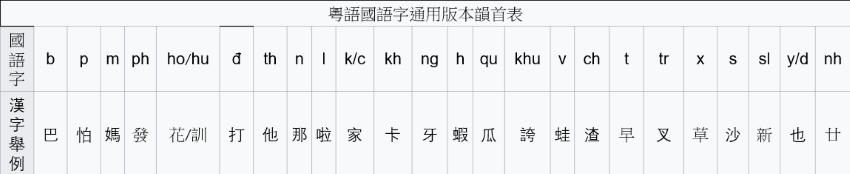
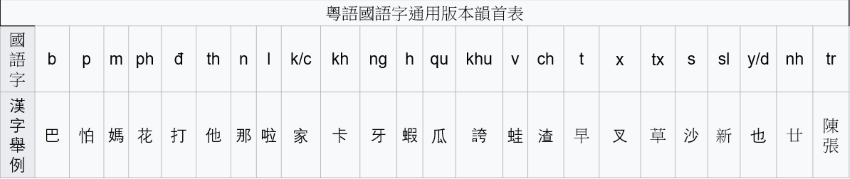
Add files via upload

Changed region(s): [[0.0, 0.5172, 1.0, 1.0], [0.0, 0.0, 1.0, 0.4885]]

diff --git a/release/c/cantonese_telex/source/welcome.htm b/release/c/cantonese_telex/source/welcome.htm
@@ -34,8 +34,8 @@
 </p>
 <p>粵語國語字係一種拉丁化嘅粵語文字，意在發展粵語表音文字，縮短粵文學習同書寫時間，增強粵語使用者之間嘅凝聚力同自我認同<p>
 <p>粵語國語字通用版本集合咗各種粵語口音嘅特點，形成咗一種能夠體現並且描述各種粵語口音嘅粵語表音文字，又減低咗同音字現象嘅影響，為唔同地區唔同口音嘅粵語使用者提供咗一種通用嘅書面文字</p> 
-  <p> Oạt-Ngữ Quóc-Ngữ-Tị hệ yât chủng Lai-đinh hóa ké Oạt Ngữ mần-tị, ý tọi phát chiển Oạt Ngữ biểu-yâm mần-tị, suc đoản Oạt Mần học-tập thùng sư-slẻ sị-kan, tăng-khường Oạt-Ngữ sỉ-yụng-chẻ chi-kan ké ngình-tụi-lịch thùng tị-ngõ nhịnh-thùng</p>
- <p>Oạt-Ngữ Quóc-Ngữ-Tị Thung-Yụng Bản-Bổn tập-hập chỏ cóc-chủng Oạt-Ngữ hẩu-yâm ké đặc-điểm, yình-sình chỏ yât chủng nằng-cấu thể-yiện bính-xẻ miều-suất cóc-chủng Oạt-Ngữ hẩu-yâm ké Oạt-Ngữ biểu-yâm mần-tị, ựu kảm-đê chỏ thùng-yâm-xì ké yỉnh-hưởng, vỵ m̀ thùng đỵ-khư m̀ thùng hẩu-yâm ké Oạt-Ngữ sỉ-yụng-chẻ thề-cung chỏ yât chủng thung-yụng ké sư-miện mần-tị</p>
+  <p> Oạt-Ngữ Quóc-Ngữ-Tị hệ yât chủng Lai-đinh hóa ké Oạt Ngữ mần-tị, ý tọi phát chiển Oạt Ngữ biểu-yâm mần-tị, suc đoản Oạt Mần học-tập thùng sư-slẻ sị-kan, tăng-khường Oạt-Ngữ sỉ-yụng-chẻ chi-kan ké ngình-tụi-lịch thùng tị-ngõ nhận-thùng</p>
+ <p>Oạt-Ngữ Quóc-Ngữ-Tị Thung-Yụng Bản-Bổn tập-hập chỏ cóc-chủng Oạt-Ngữ hẩu-yâm ké đặc-điểm, hình-sình chỏ yât chủng nằng-cấu thể-hiện bính-xẻ miều-suất cóc-chủng Oạt-Ngữ hẩu-yâm ké Oạt-Ngữ biểu-yâm mần-tị, ựu kảm-đê chỏ thùng-yâm-xì ké yỉnh-hưởng, vỵ m̀ thùng đỵ-khư m̀ thùng hẩu-yâm ké Oạt-Ngữ sỉ-yụng-chẻ thề-cung chỏ yât chủng thung-yụng ké sư-miện mần-tị</p>
   <p> Chữ Quốc Ngữ tiếng Quảng Đông là một loại chữ viết La-tinh hóa của tiếng Quảng Đông, nhằm mục đích phát triển chữ viết biểu âm của tiếng Quảng Đông, giảm bớt thời gian học và viết tiếng Quảng Đông, nâng cao sức hướng tâm và khẳng định căn cước của những người sử dụng tiếng Quảng Đông</p>
 <p>Chữ Quốc Ngữ tiếng Quảng Đông thông dụng đã tổng hợp đặc trưng của các loại giọng của tiếng Quảng, hình thành một chữ viết biểu âm có thể thể hiện và mô tả các loại giọng của tiếng Quảng, cũng bớt ảnh hưởng của hiện tượng từ đồng âm, cho những người nói các giọng của tiếng Quảng Đông ở khắp nơi một hệ thống chữ viết thung yụng </p>
   <p> The script of national language for Cantonese is a romanized Cantonese script aimed at developing a phonetic writing system for Cantonese, reduce the time of learning and writing of Cantonese, while strengthening the cohesion and self-identity among Cantonese speakers.</p>
@@ -53,8 +53,10 @@
   <p>The consonant "ng" before vowels i ê e can be transformed to "ngh"</p>
  <p>廣州音入面消失咗嘅某啲日母nh韻首同疑母ng韻首保留喺通用版入面，呢啲日母nh同疑母ng喺台山話欽州話同南寧話仍然存在</p>
  <p>The "nh" and "ng" consonants disappeared in Cantonese of Hong Kong and Canton city are preserved in the universal version, which are still existing in Hoisan, Yamchow and Namning accent</p>
- <p>廣州音入面唔再分別嘅 ch（知）同t（精）韻首、tr（持）同x（青）韻首、s（詩）同sl（思）韻首依然喺通用版本入面得到體現</p>
- <p>The "ch" and "t" consonants pair, "tr" and "x" consonants pair, "s" and "sl" consonants pair which are not differed in Hong Kong and Canton city accent, are still presented in universal version.</p>
+ <p>廣州音入面唔再分別嘅 ch（知）同t（精）韻首、x（持）同tx（青）韻首、s（詩）同sl（思）韻首依然喺通用版本入面得到體現</p>
+ <p>The "ch" and "t" consonants pair, "x" and "tx" consonants pair, "s" and "sl" consonants pair which are not differed in Hong Kong and Canton city accent, are still presented in universal version.</p>
+  <p>"tr"韻首用嚟表示依家粵語依家已經冇咗嘅「知組」聲母，"tr"韻首用嚟表示專有名詞譬如話人同地方嘅名，"tr"韻首係第一聲、第二聲、第三聲、第六聲嘅韻腹前邊時同"ch"韻首嘅發音相同，"tr"韻首係第四聲、第五聲嘅韻腹前邊時同"x"韻首嘅發音相同</p>
+ <p>"tr" consonant is used to represent the "tr" serie consonants which is no longer existing Cantonese. The "tr" is applied in the proper noun such as name of a person and a place. The pronunciation of "tr" is same as "ch" in syllable with the first, second, third and sixth tone. The pronunciation of "tr" is same as "x" in syllable with the forth and fifth tone.</p>
  <p>喺廣州音入面讀"ph"而係喺南寧音入面有機會讀"v"嘅韻首，通用版本寫"ho" "hu"或者"kho"譬如話 「花hoa」「化hóa」「葷huân」「訓huấn」「快khoái」</p> 
  <p>The consonants pronounce "ph" in Canton city accent and have change to be pronounced as "v", should be spelled as "ho" "hu" or "kho" in universal version, such as "花hoa" "化hóa" "葷huân" "訓huấn" "快khoái"</p> 
  <p>字母"f"嘅發音同"ph"相同，主要用嚟表音同書寫外來詞語</p>
@@ -69,8 +71,8 @@
  <p>The vowels pronounce "âu" in Canton city and Hong Kong accent while pronounce "ưu" in Hoisan accent are spelled as "ưu"</p>
  <p>如果"ưu"韻腹前邊嘅韻首係"y",咁就唔使寫韻首，直程寫"ưu"就得，譬如話「優ưu」「幼ứu」「友ữu」「右ựu」</p>
  <p>If the consonant before the vowel "ưu" is "y", then this consonant will be omitted, only "ưu" will be spelled, such as 「優ưu」「幼ứu」「友ữu」「右ựu」</p>
- <p>如果一個字嘅南寧音版本嘅韻腹係"ư", 喺廣州音或者台山話入面讀"cui/kui" "khui" "hui" "ngui" "slui" "xui" "tui" "nui" "lui"，咁呢啲字嘅通用版正寫係"cư/kư" "khư" "hư" "ngư" "slư" "xư" "tư" "nư" "lư"</p>
- <p>If a character's vowel is "ư" in Namning accent, and the character is pronounced "cui/kui" "khui" "hui" "ngui" "slui" "xui" "tui" "nui" "lui" in Canton city and Hong Kong accent or Hoisan accent, then the character should be spelled as "cư/kư" "khư" "hư" "ngư" "slư" "xư" "tư" "nư" "lư" in the universal version</p>
+ <p>如果一個字嘅南寧音版本嘅韻腹係"ư", 喺廣州音或者台山話入面讀"cui/kui" "khui" "hui" "ngui" "slui" "txui" "tui" "nui" "lui"，咁呢啲字嘅通用版正寫係"cư/kư" "khư" "hư" "ngư" "slư" "txư" "tư" "nư" "lư"</p>
+ <p>If a character's vowel is "ư" in Namning accent, and the character is pronounced "cui/kui" "khui" "hui" "ngui" "slui" "txui" "tui" "nui" "lui" in Canton city and Hong Kong accent or Hoisan accent, then the character should be spelled as "cư/kư" "khư" "hư" "ngư" "slư" "txư" "tư" "nư" "lư" in the universal version</p>
  <p>南寧音入面嘅[tʃɿ] [tʃʰɿ] [sɿ]嘅拼寫係"chu" "xu" "su"</p>
  <p>The [tʃɿ] [tʃʰɿ] and [sɿ] sounds in Namning accent are spelled as "chu" "xu" and "su"</p>
  <p>"iu" "im" "in" "ip" "it" 組合用嚟表示發音或者串唔係粵語詞源或者唔係漢越詞詞源嘅詞語，譬如話來自嘅英文嘅借詞「𨋢lip」「天拿水thin-nà sủi」，或者係借用漢字嚟表示詞語嘅發音但係字嘅意思同漢字本身嘅意思無關嘅字，呢啲正寫嘅發音同廣州話嘅"iêu" "iêm" "iên" "iêp" "iêt" 一樣，同台山話嘅"ưu" "âm" "ân" "ât" "âp" 一樣</p>
@@ -188,14 +190,14 @@
    <tr>
      <td>3 (mid level)</td>
      <td>s</td>
-     <td>huy<strong>s</strong></td>
+     <td>huw<strong>s</strong></td>
      <td>hứ去
      </td>
    </tr>
    <tr>
      <td>4 (low falling)</td>
      <td>f</td>
-     <td>tra<strong>f</strong></td>
+     <td>xa<strong>f</strong></td>
      <td>xà茶
      </td></tr>
    <tr>
@@ -247,7 +249,7 @@
   <p>每個句子嘅第一個字母要大寫</p>
   <p>The first letter in a proper noun such as the name of a particular person and place should be capitalized</p>
   <p>專有名詞譬如話人同地方嘅第一個字母要大寫</p>
-  <p>The first letter in each syllable of a Cantonese origin or Sino-cantonese origin proper noun such as the name of a particular person and place should be capitalized</p>
+  <p>The first letter in each syllable of a Cantonese origin or Sino-cantonese origin proper noun such as the name of a person and a place should be capitalized</p>
   <p>粵語或者漢粵詞詞源嘅專有名詞嘅每一個音節嘅第一個字母要大寫</p>
   <p>In an acronym, the first letter of each syllable should be capitalized, and a period "." can be added behind each capitalized letter</p>
   <p>係縮寫中，每個音節嘅第一個字母要大寫，每個大寫字母嘅後邊可以添埋一個句號"."</p>
@@ -258,6 +260,8 @@
   <p>Other punctuation works similar with punctuations in English and Vietnamese</p>
   <p>等等đẳng đẳng嘅縮寫係đ.đ.</p>
   <p>The acronym of "đẳng đẳng" is "đ.đ."</p>
+  <p>如果某一個音節歷史上由兩個音節演化然後合併，咁喺呢個音節嘅韻首同韻腹中間可以加入一個撇"’"，譬如話自"mât-yẽ乜嘢"變成嘅"m’e咩" 自"nhị-sập二十"變成嘅"nh’ạ廿" 自"slam-sập三十"變成嘅"sl’a卅" 自"m̀-hệ唔係"變成嘅"m’ệ咪"</p>
+  <p>If one syllable was historically evolved from the merging of two syllables, an apostrophe can be inserted between the front consonant and the vowel. For example, "mât-yẽ乜嘢" evolved to "m’e咩" "nhị-sập二十" evolved to "nh’ạ廿" "slam-sập三十" evolved to "s’a卅" "m̀-hệ唔係" evolved to "m’ệ咪" </p>
   <p>其他標點嘅作用同英文同越南文類似</p>
   <p>Other uses of punctuation are similar with English and Vietnamese</p>
   <p></p>
@@ -269,7 +273,7 @@
      If more than one tone marking key is pressed, the last one will be used. For example, typing <code>asf</code> will return "à". To write a tone marking key as a normal character, one has to press it twice: <code>her</code> becomes <code>hẻ</code>, while <code>herr</code> becomes <code>her</code>.
    </p>
  <p> 使用Z鍵取消音調轉換 </p>
- <p> tap Z key to remove tonations  </p>p>
+ <p> tap Z key to remove tonations  </p>
 
 
   <a href="https://github.com/Cathaylaboratory/quokyuzi/blob/main/oatnguquocnguti.yaml">Dictionary for the script of National Language universal version Quóc Ngữ Tị大粤國音字匯－粵語國語字字典總合通用版</a>
@@ -283,7 +287,7 @@
   <a href="https://github.com/Cathaylaboratory/quokyuzi/blob/main/quocyuchinamninhva.yaml">Dictionary for the script of National Language for Namning accent Quóc Ữ Chị粵語國語字字典南寧音</a>
   <p></p>
   <p>粵語國語字通用版本係一種收納咗多種粵語口音發音嘅粵語文字，粵語國語字通用版本嘅使用同粵語國語字嘅廣州音、台山音、南寧音、欽州音等等粵語口音嘅版本嘅使用之間唔衝突</p>
-  <p>Oạt Ngữ Quóc Ngữ Tị thung yụng bản bổn hệ yât chủng sưu-nạp chỏ đo-chủng Oạt Ngữ hẩu yâm ké Oạt-Ngữ mần-tị, Oạt Ngữ Quóc Ngữ Tị thung yụng bản bổn ké sỉ-yụng thùng Oạt Ngữ Quóc Ngữ Tị ké Quỏng Châu yâm, Thòi San yâm, Nàm Nình Yâm, Yâm Châu yâm đ.đ. Oạt Ngữ hẩu yâm ké bản-bổn ké sỉ-yụng m̀ trung-đật </p>
+  <p>Oạt Ngữ Quóc Ngữ Tị thung yụng bản bổn hệ yât chủng sưu-nạp chỏ đo-chủng Oạt Ngữ hẩu yâm ké Oạt-Ngữ mần-tị, Oạt Ngữ Quóc Ngữ Tị thung yụng bản bổn ké sỉ-yụng thùng Oạt Ngữ Quóc Ngữ Tị ké Quỏng Châu yâm, Thòi San yâm, Nàm Nình Yâm, Yâm Châu yâm đ.đ. Oạt Ngữ hẩu yâm ké bản-bổn ké sỉ-yụng m̀ xung-đật </p>
   <p>The universal version of Script of Nation Language of Cantonese is a Cantonese script gathered various of Cantonese accents and dialects, the uses of the universal version of Script of Nation Language of Cantonese is not conflict with the use of the Script of Nation Language of Cantonese for cantonese accents, such as Hong Kong and Canton city accent, Hoisan accent, Namning accent and Yamchow accent.</p>
   <p></p>
 <p>範文：南國山河</p>
@@ -293,9 +297,9 @@
 <p>截然定分在天書</p>
 <p>Tiệt Nhiền Định Phân Tọi Thiên Sư</p>
 <p>如何逆虜來侵犯</p> 
-<p>Nhừ Hò Ngịch Lỗ Lòi Xâm Phạn</p>
+<p>Nhừ Hò Ngịch Lỗ Lòi Txâm Phạn</p>
 <p>汝等行看取敗虛</p> 
-<p>Nhữ Đẳng Hành Hón Xử Bại Hư</p>
+<p>Nhữ Đẳng Hành Hón Txử Bại Hư</p>
 
 <p>© cathaylab</p>
 </body>

diff --git a/release/c/cantonese_telex/source/help/cantonese_telex.php b/release/c/cantonese_telex/source/help/cantonese_telex.php
@@ -8,10 +8,10 @@
 <p>
   Cantonese Telex keyboard for the Universal Version Script of the National Language for Cantonese Oạt Ngữ Quóc Ngữ Tị Thung Yụng Bản粵語國語字通用版
 </p>
-<p>粵語國語字係一種拉丁化嘅粵語文字，意在發展粵語表音文字，縮短粵文學習同書寫時間，增強粵語使用者之間嘅凝聚力同自我認同</p>
+<p>粵語國語字係一種拉丁化嘅粵語文字，意在發展粵語表音文字，縮短粵文學習同書寫時間，增強粵語使用者之間嘅凝聚力同自我認同<p>
 <p>粵語國語字通用版本集合咗各種粵語口音嘅特點，形成咗一種能夠體現並且描述各種粵語口音嘅粵語表音文字，又減低咗同音字現象嘅影響，為唔同地區唔同口音嘅粵語使用者提供咗一種通用嘅書面文字</p> 
-  <p> Oạt-Ngữ Quóc-Ngữ-Tị hệ yât chủng Lai-đinh hóa ké Oạt Ngữ mần-tị, ý tọi phát chiển Oạt Ngữ biểu-yâm mần-tị, suc đoản Oạt Mần học-tập thùng sư-slẻ sị-kan, tăng-khường Oạt-Ngữ sỉ-yụng-chẻ chi-kan ké ngình-tụi-lịch thùng tị-ngõ nhịnh-thùng</p>
- <p>Oạt-Ngữ Quóc-Ngữ-Tị Thung-Yụng Bản-Bổn tập-hập chỏ cóc-chủng Oạt-Ngữ hẩu-yâm ké đặc-điểm, yình-sình chỏ yât chủng nằng-cấu thể-yiện bính-xẻ miều-suất cóc-chủng Oạt-Ngữ hẩu-yâm ké Oạt-Ngữ biểu-yâm mần-tị, ựu kảm-đê chỏ thùng-yâm-xì ké yỉnh-hưởng, vỵ m̀ thùng đỵ-khư m̀ thùng hẩu-yâm ké Oạt-Ngữ sỉ-yụng-chẻ thề-cung chỏ yât chủng thung-yụng ké sư-miện mần-tị</p>p>
+  <p> Oạt-Ngữ Quóc-Ngữ-Tị hệ yât chủng Lai-đinh hóa ké Oạt Ngữ mần-tị, ý tọi phát chiển Oạt Ngữ biểu-yâm mần-tị, suc đoản Oạt Mần học-tập thùng sư-slẻ sị-kan, tăng-khường Oạt-Ngữ sỉ-yụng-chẻ chi-kan ké ngình-tụi-lịch thùng tị-ngõ nhận-thùng</p>
+ <p>Oạt-Ngữ Quóc-Ngữ-Tị Thung-Yụng Bản-Bổn tập-hập chỏ cóc-chủng Oạt-Ngữ hẩu-yâm ké đặc-điểm, hình-sình chỏ yât chủng nằng-cấu thể-hiện bính-xẻ miều-suất cóc-chủng Oạt-Ngữ hẩu-yâm ké Oạt-Ngữ biểu-yâm mần-tị, ựu kảm-đê chỏ thùng-yâm-xì ké yỉnh-hưởng, vỵ m̀ thùng đỵ-khư m̀ thùng hẩu-yâm ké Oạt-Ngữ sỉ-yụng-chẻ thề-cung chỏ yât chủng thung-yụng ké sư-miện mần-tị</p>
   <p> Chữ Quốc Ngữ tiếng Quảng Đông là một loại chữ viết La-tinh hóa của tiếng Quảng Đông, nhằm mục đích phát triển chữ viết biểu âm của tiếng Quảng Đông, giảm bớt thời gian học và viết tiếng Quảng Đông, nâng cao sức hướng tâm và khẳng định căn cước của những người sử dụng tiếng Quảng Đông</p>
 <p>Chữ Quốc Ngữ tiếng Quảng Đông thông dụng đã tổng hợp đặc trưng của các loại giọng của tiếng Quảng, hình thành một chữ viết biểu âm có thể thể hiện và mô tả các loại giọng của tiếng Quảng, cũng bớt ảnh hưởng của hiện tượng từ đồng âm, cho những người nói các giọng của tiếng Quảng Đông ở khắp nơi một hệ thống chữ viết thung yụng </p>
   <p> The script of national language for Cantonese is a romanized Cantonese script aimed at developing a phonetic writing system for Cantonese, reduce the time of learning and writing of Cantonese, while strengthening the cohesion and self-identity among Cantonese speakers.</p>
@@ -29,8 +29,10 @@
   <p>The consonant "ng" before vowels i ê e can be transformed to "ngh"</p>
  <p>廣州音入面消失咗嘅某啲日母nh韻首同疑母ng韻首保留喺通用版入面，呢啲日母nh同疑母ng喺台山話欽州話同南寧話仍然存在</p>
  <p>The "nh" and "ng" consonants disappeared in Cantonese of Hong Kong and Canton city are preserved in the universal version, which are still existing in Hoisan, Yamchow and Namning accent</p>
- <p>廣州音入面唔再分別嘅 ch（知）同t（精）韻首、tr（持）同x（青）韻首、s（詩）同sl（思）韻首依然喺通用版本入面得到體現</p>
- <p>The "ch" and "t" consonants pair, "tr" and "x" consonants pair, "s" and "sl" consonants pair which are not differed in Hong Kong and Canton city accent, are still presented in universal version.</p>
+ <p>廣州音入面唔再分別嘅 ch（知）同t（精）韻首、x（持）同tx（青）韻首、s（詩）同sl（思）韻首依然喺通用版本入面得到體現</p>
+ <p>The "ch" and "t" consonants pair, "x" and "tx" consonants pair, "s" and "sl" consonants pair which are not differed in Hong Kong and Canton city accent, are still presented in universal version.</p>
+  <p>"tr"韻首用嚟表示依家粵語依家已經冇咗嘅「知組」聲母，"tr"韻首用嚟表示專有名詞譬如話人同地方嘅名，"tr"韻首係第一聲、第二聲、第三聲、第六聲嘅韻腹前邊時同"ch"韻首嘅發音相同，"tr"韻首係第四聲、第五聲嘅韻腹前邊時同"x"韻首嘅發音相同</p>
+ <p>"tr" consonant is used to represent the "tr" serie consonants which is no longer existing Cantonese. The "tr" is applied in the proper noun such as name of a person and a place. The pronunciation of "tr" is same as "ch" in syllable with the first, second, third and sixth tone. The pronunciation of "tr" is same as "x" in syllable with the forth and fifth tone.</p>
  <p>喺廣州音入面讀"ph"而係喺南寧音入面有機會讀"v"嘅韻首，通用版本寫"ho" "hu"或者"kho"譬如話 「花hoa」「化hóa」「葷huân」「訓huấn」「快khoái」</p> 
  <p>The consonants pronounce "ph" in Canton city accent and have change to be pronounced as "v", should be spelled as "ho" "hu" or "kho" in universal version, such as "花hoa" "化hóa" "葷huân" "訓huấn" "快khoái"</p> 
  <p>字母"f"嘅發音同"ph"相同，主要用嚟表音同書寫外來詞語</p>
@@ -45,8 +47,8 @@
  <p>The vowels pronounce "âu" in Canton city and Hong Kong accent while pronounce "ưu" in Hoisan accent are spelled as "ưu"</p>
  <p>如果"ưu"韻腹前邊嘅韻首係"y",咁就唔使寫韻首，直程寫"ưu"就得，譬如話「優ưu」「幼ứu」「友ữu」「右ựu」</p>
  <p>If the consonant before the vowel "ưu" is "y", then this consonant will be omitted, only "ưu" will be spelled, such as 「優ưu」「幼ứu」「友ữu」「右ựu」</p>
- <p>如果一個字嘅南寧音版本嘅韻腹係"ư", 喺廣州音或者台山話入面讀"cui/kui" "khui" "hui" "ngui" "slui" "xui" "tui" "nui" "lui"，咁呢啲字嘅通用版正寫係"cư/kư" "khư" "hư" "ngư" "slư" "xư" "tư" "nư" "lư"</p>
- <p>If a character's vowel is "ư" in Namning accent, and the character is pronounced "cui/kui" "khui" "hui" "ngui" "slui" "xui" "tui" "nui" "lui" in Canton city and Hong Kong accent or Hoisan accent, then the character should be spelled as "cư/kư" "khư" "hư" "ngư" "slư" "xư" "tư" "nư" "lư" in the universal version</p>
+ <p>如果一個字嘅南寧音版本嘅韻腹係"ư", 喺廣州音或者台山話入面讀"cui/kui" "khui" "hui" "ngui" "slui" "txui" "tui" "nui" "lui"，咁呢啲字嘅通用版正寫係"cư/kư" "khư" "hư" "ngư" "slư" "txư" "tư" "nư" "lư"</p>
+ <p>If a character's vowel is "ư" in Namning accent, and the character is pronounced "cui/kui" "khui" "hui" "ngui" "slui" "txui" "tui" "nui" "lui" in Canton city and Hong Kong accent or Hoisan accent, then the character should be spelled as "cư/kư" "khư" "hư" "ngư" "slư" "txư" "tư" "nư" "lư" in the universal version</p>
  <p>南寧音入面嘅[tʃɿ] [tʃʰɿ] [sɿ]嘅拼寫係"chu" "xu" "su"</p>
  <p>The [tʃɿ] [tʃʰɿ] and [sɿ] sounds in Namning accent are spelled as "chu" "xu" and "su"</p>
  <p>"iu" "im" "in" "ip" "it" 組合用嚟表示發音或者串唔係粵語詞源或者唔係漢越詞詞源嘅詞語，譬如話來自嘅英文嘅借詞「𨋢lip」「天拿水thin-nà sủi」，或者係借用漢字嚟表示詞語嘅發音但係字嘅意思同漢字本身嘅意思無關嘅字，呢啲正寫嘅發音同廣州話嘅"iêu" "iêm" "iên" "iêp" "iêt" 一樣，同台山話嘅"ưu" "âm" "ân" "ât" "âp" 一樣</p>
@@ -135,7 +137,7 @@
 </table>
 
 <p>tone rules quy tắc thanh điệu 音調規則</p>
- <p> 對應粵拼嘅第一聲唔使打，第二聲打r，第三聲打s，第四聲打f，第五聲打x，第六聲打j </p>p>
+ <p> 對應粵拼嘅第一聲唔使打，第二聲打r，第三聲打s，第四聲打f，第五聲打x，第六聲打j </p>
  <p> tone 1 for nothing, tone 2 = r, tone 3 =s, tone 4 = f, tone 5 = x, tone 6 = j </p>p>
 <h2>Tonal diacritics</h2>
 
@@ -164,14 +166,14 @@
    <tr>
      <td>3 (mid level)</td>
      <td>s</td>
-     <td>huy<strong>s</strong></td>
+     <td>huw<strong>s</strong></td>
      <td>hứ去
      </td>
    </tr>
    <tr>
      <td>4 (low falling)</td>
      <td>f</td>
-     <td>tra<strong>f</strong></td>
+     <td>xa<strong>f</strong></td>
      <td>xà茶
      </td></tr>
    <tr>
@@ -223,7 +225,7 @@
   <p>每個句子嘅第一個字母要大寫</p>
   <p>The first letter in a proper noun such as the name of a particular person and place should be capitalized</p>
   <p>專有名詞譬如話人同地方嘅第一個字母要大寫</p>
-  <p>The first letter in each syllable of a Cantonese origin or Sino-cantonese origin proper noun such as the name of a particular person and place should be capitalized</p>
+  <p>The first letter in each syllable of a Cantonese origin or Sino-cantonese origin proper noun such as the name of a person and a place should be capitalized</p>
   <p>粵語或者漢粵詞詞源嘅專有名詞嘅每一個音節嘅第一個字母要大寫</p>
   <p>In an acronym, the first letter of each syllable should be capitalized, and a period "." can be added behind each capitalized letter</p>
   <p>係縮寫中，每個音節嘅第一個字母要大寫，每個大寫字母嘅後邊可以添埋一個句號"."</p>
@@ -234,6 +236,8 @@
   <p>Other punctuation works similar with punctuations in English and Vietnamese</p>
   <p>等等đẳng đẳng嘅縮寫係đ.đ.</p>
   <p>The acronym of "đẳng đẳng" is "đ.đ."</p>
+  <p>如果某一個音節歷史上由兩個音節演化然後合併，咁喺呢個音節嘅韻首同韻腹中間可以加入一個撇"’"，譬如話自"mât-yẽ乜嘢"變成嘅"m’e咩" 自"nhị-sập二十"變成嘅"nh’ạ廿" 自"slam-sập三十"變成嘅"sl’a卅" 自"m̀-hệ唔係"變成嘅"m’ệ咪"</p>
+  <p>If one syllable was historically evolved from the merging of two syllables, an apostrophe can be inserted between the front consonant and the vowel. For example, "mât-yẽ乜嘢" evolved to "m’e咩" "nhị-sập二十" evolved to "nh’ạ廿" "slam-sập三十" evolved to "s’a卅" "m̀-hệ唔係" evolved to "m’ệ咪" </p>
   <p>其他標點嘅作用同英文同越南文類似</p>
   <p>Other uses of punctuation are similar with English and Vietnamese</p>
   <p></p>
@@ -259,7 +263,7 @@
   <a href="https://github.com/Cathaylaboratory/quokyuzi/blob/main/quocyuchinamninhva.yaml">Dictionary for the script of National Language for Namning accent Quóc Ữ Chị粵語國語字字典南寧音</a>
   <p></p>
   <p>粵語國語字通用版本係一種收納咗多種粵語口音發音嘅粵語文字，粵語國語字通用版本嘅使用同粵語國語字嘅廣州音、台山音、南寧音、欽州音等等粵語口音嘅版本嘅使用之間唔衝突</p>
-  <p>Oạt Ngữ Quóc Ngữ Tị thung yụng bản bổn hệ yât chủng sưu-nạp chỏ đo-chủng Oạt Ngữ hẩu yâm ké Oạt-Ngữ mần-tị, Oạt Ngữ Quóc Ngữ Tị thung yụng bản bổn ké sỉ-yụng thùng Oạt Ngữ Quóc Ngữ Tị ké Quỏng Châu yâm, Thòi San yâm, Nàm Nình Yâm, Yâm Châu yâm đ.đ. Oạt Ngữ hẩu yâm ké bản-bổn ké sỉ-yụng m̀ trung-đật </p>
+  <p>Oạt Ngữ Quóc Ngữ Tị thung yụng bản bổn hệ yât chủng sưu-nạp chỏ đo-chủng Oạt Ngữ hẩu yâm ké Oạt-Ngữ mần-tị, Oạt Ngữ Quóc Ngữ Tị thung yụng bản bổn ké sỉ-yụng thùng Oạt Ngữ Quóc Ngữ Tị ké Quỏng Châu yâm, Thòi San yâm, Nàm Nình Yâm, Yâm Châu yâm đ.đ. Oạt Ngữ hẩu yâm ké bản-bổn ké sỉ-yụng m̀ xung-đật </p>
   <p>The universal version of Script of Nation Language of Cantonese is a Cantonese script gathered various of Cantonese accents and dialects, the uses of the universal version of Script of Nation Language of Cantonese is not conflict with the use of the Script of Nation Language of Cantonese for cantonese accents, such as Hong Kong and Canton city accent, Hoisan accent, Namning accent and Yamchow accent.</p>
   <p></p>
 <p>範文：南國山河</p>
@@ -269,8 +273,8 @@
 <p>截然定分在天書</p>
 <p>Tiệt Nhiền Định Phân Tọi Thiên Sư</p>
 <p>如何逆虜來侵犯</p> 
-<p>Nhừ Hò Ngịch Lỗ Lòi Xâm Phạn</p>
+<p>Nhừ Hò Ngịch Lỗ Lòi Txâm Phạn</p>
 <p>汝等行看取敗虛</p> 
-<p>Nhữ Đẳng Hành Hón Xử Bại Hư</p>
+<p>Nhữ Đẳng Hành Hón Txử Bại Hư</p>
 
 <p>© cathaylab</p>

diff --git a/release/c/cantonese_telex/HISTORY.md b/release/c/cantonese_telex/HISTORY.md
@@ -1,6 +1,10 @@
 cantonese telex Change History
 ====================
 
+3.1.2 (2025-12-01)
+----------------
+* added apostrophe between front consonant and vowel in a merged syllable
+
 3.1.1 (2025-09-11)
 ----------------
 * added explaination for consonants "f" "d" "z" and "dz"
